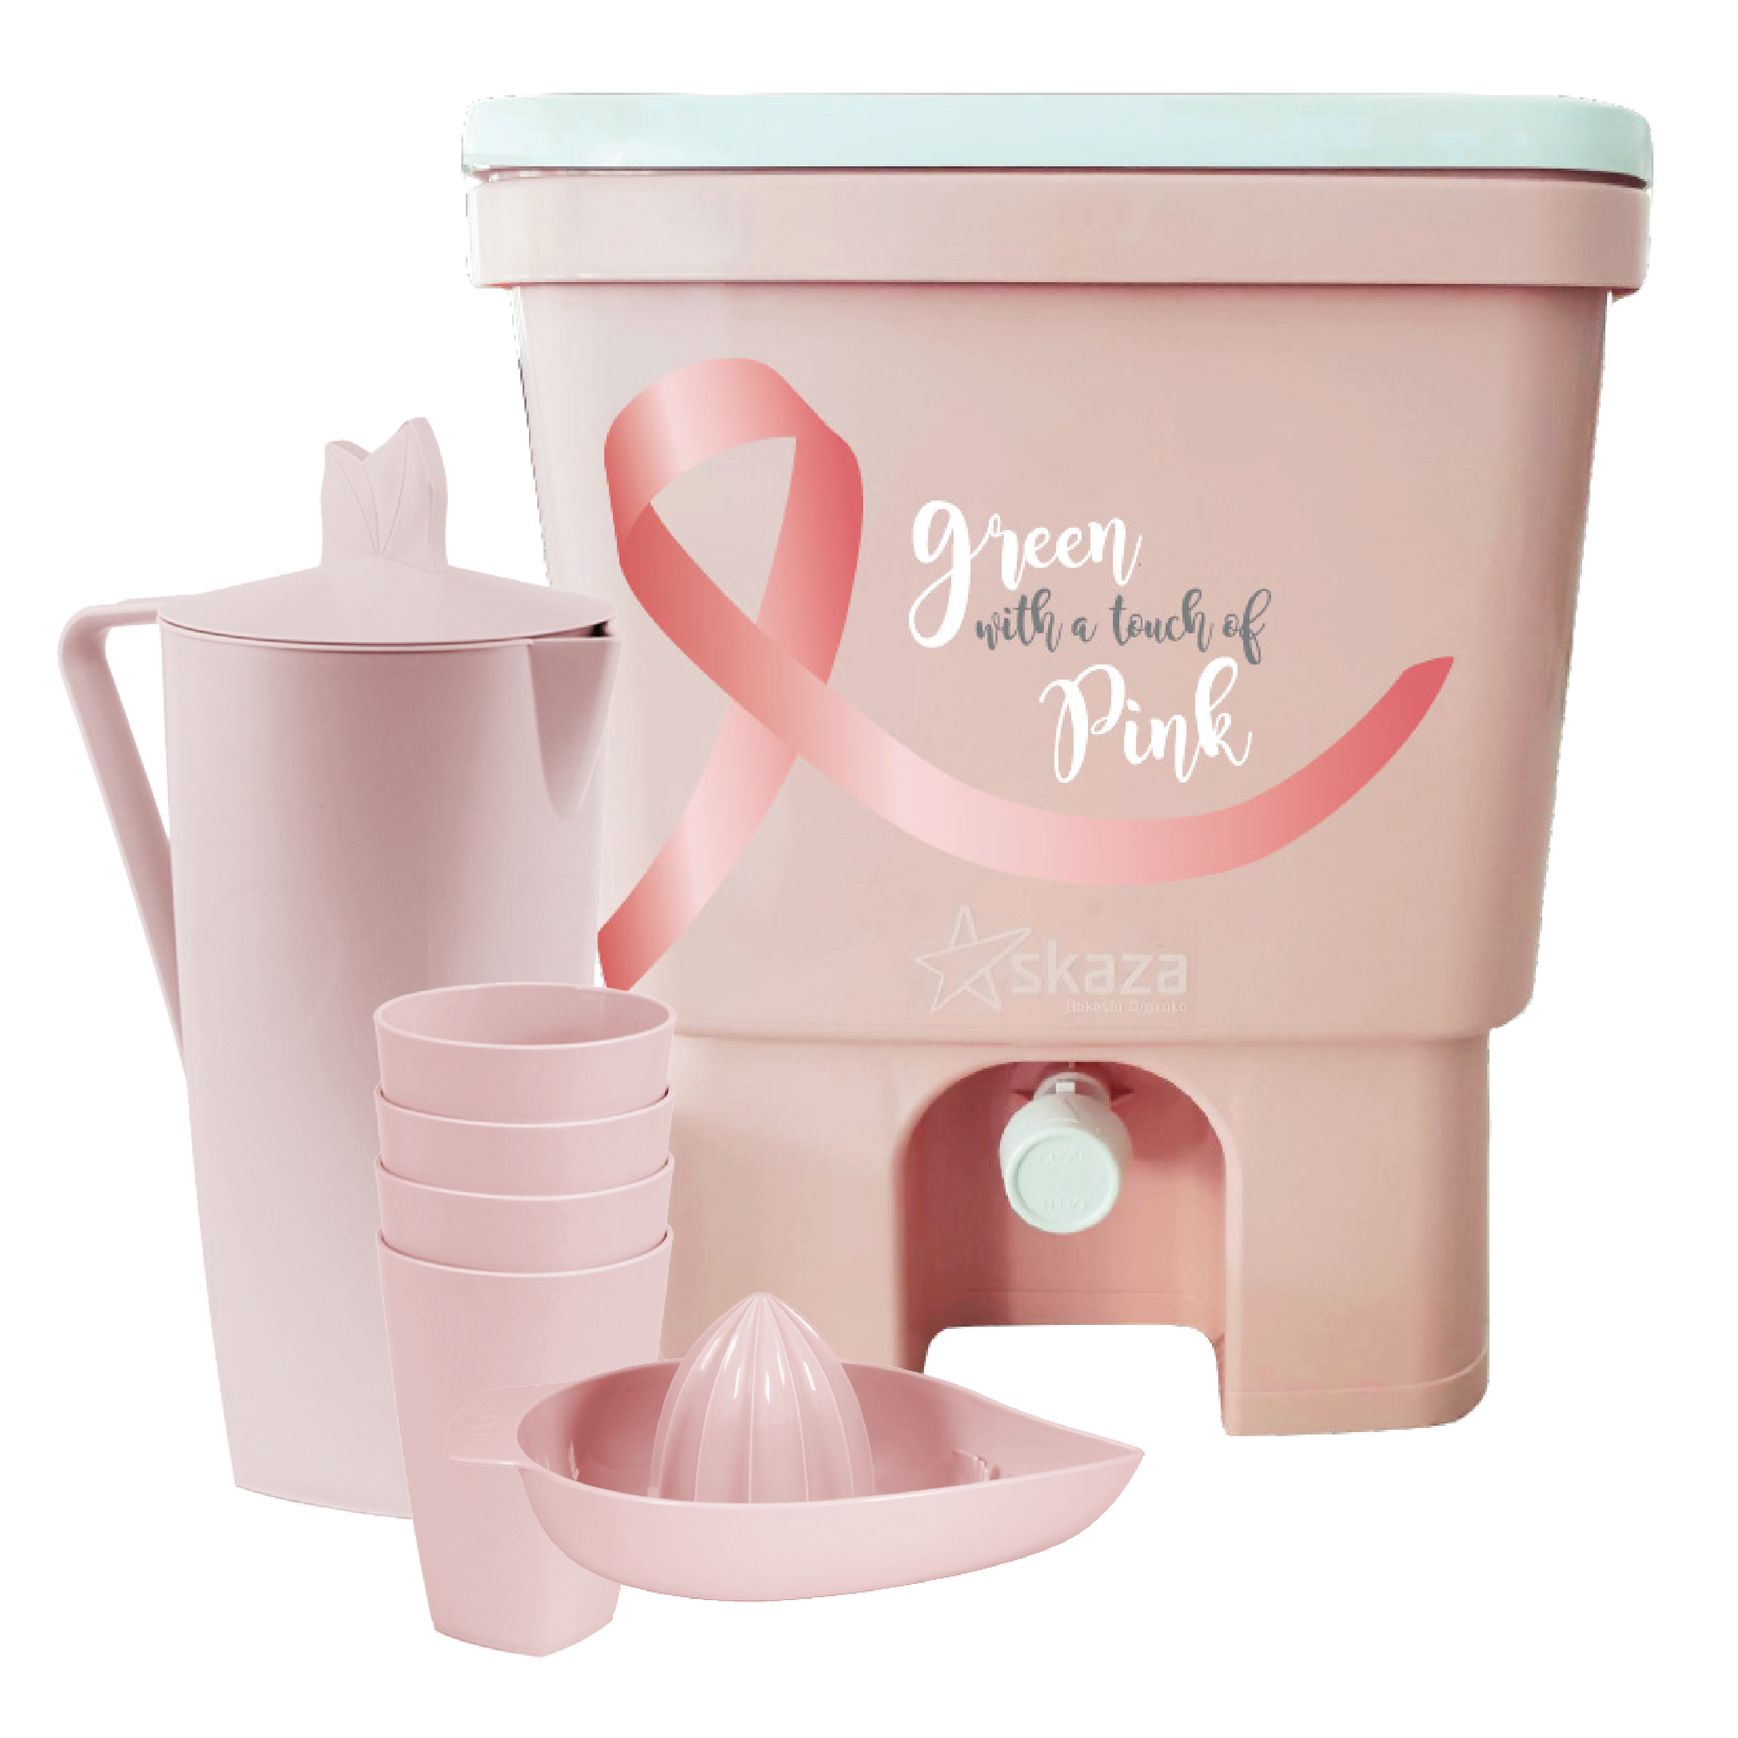
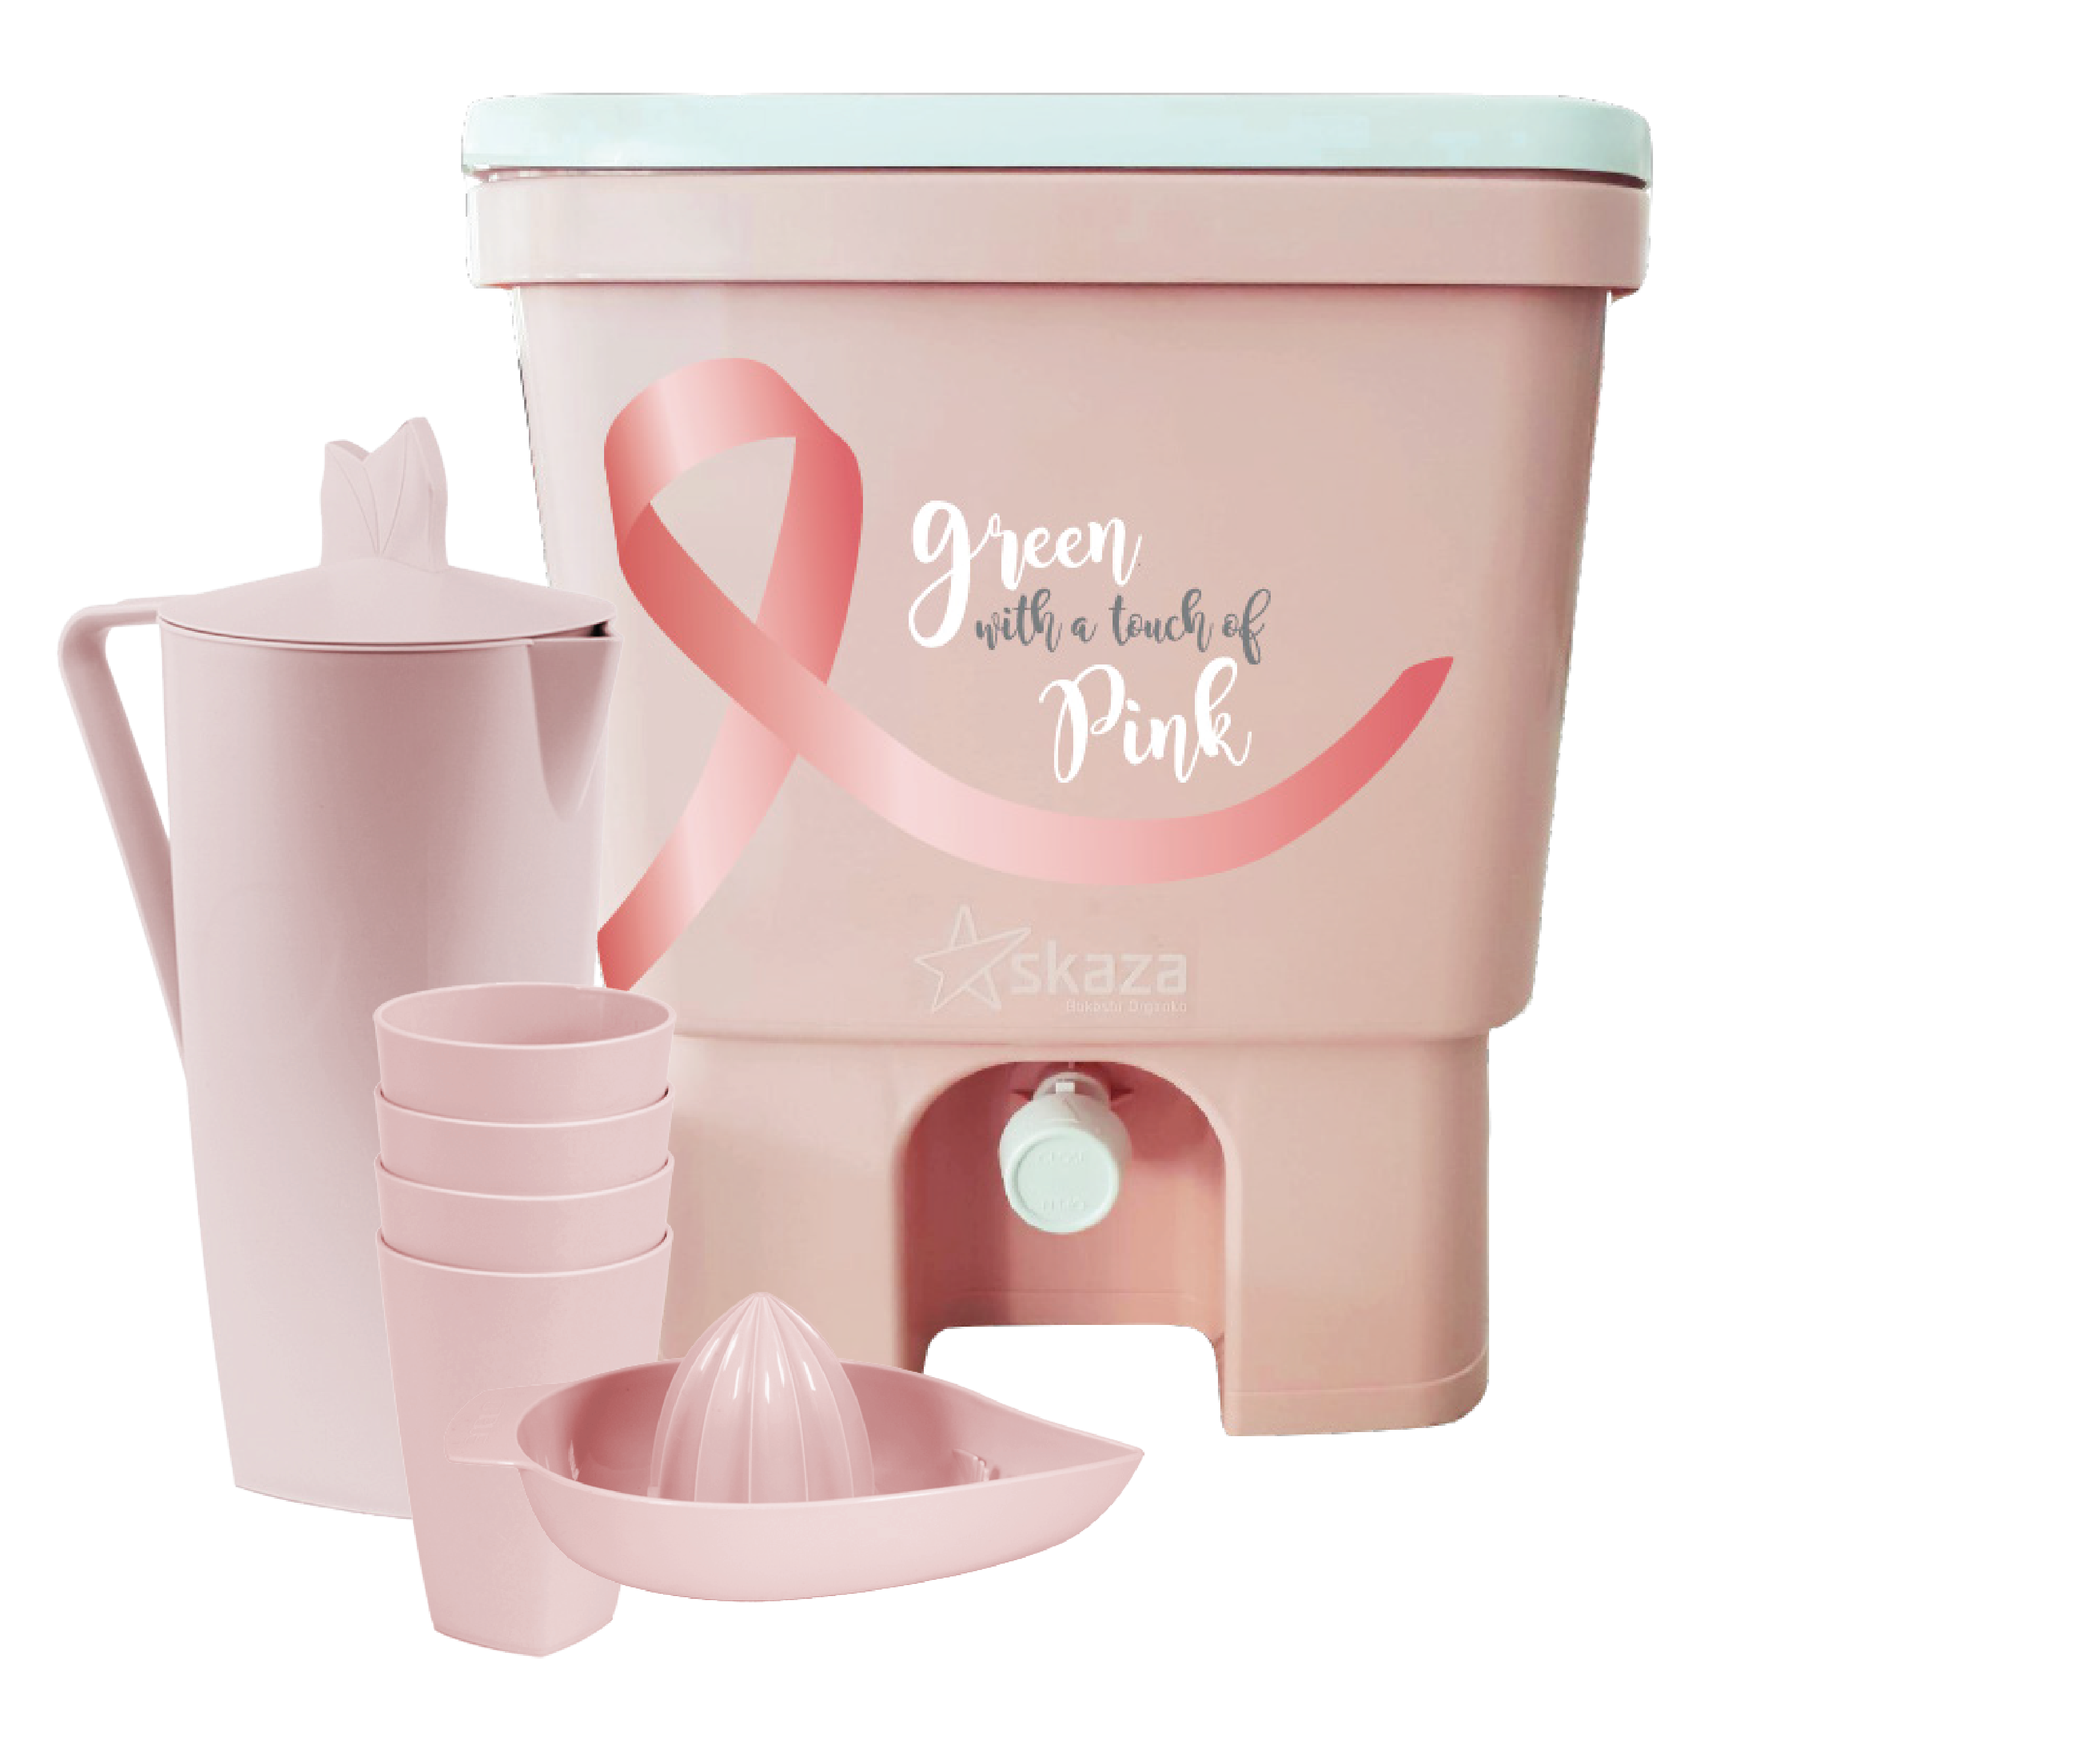
final ribbon fix

diff --git a/css/style.css b/css/style.css
@@ -128,7 +128,7 @@ small, .small {
 }
 
 .text-container {
-  max-width: 1000px;
+  max-width: 1060px;
   margin: 0 auto;
   padding: 0 3%;
 }
@@ -211,7 +211,7 @@ header .right .image-container {
 }
 header .right .bokashi-set {
   display: block;
-  max-width: 280px;
+  max-width: 385px;
   width: 100%;
 }
 header .right .donna-logo {
@@ -238,31 +238,10 @@ header .button {
 
 main section:first-child {
   position: relative;
-  /*
-  410px
-  .ribbon {
-      height: 120%;
-      top: 0;
-      @include transform(translate(25%, -5%));
-  }
-  490
-  height: 130%;
-  min-width: 140%;
-  690
-  min-width: 130%;
-  @include transform(translate(18%, -5%));
-  745
-  @include transform(translate(18%, -10%));
-  800
-  @include transform(translate(10%, -10%));
-  910
-  @include transform(translate(8%, -8%));
-
-  */
 }
 main section:first-child .ribbon {
   height: 50%;
-  min-width: 130%;
+  min-width: 100%;
   max-width: 300%;
   position: absolute;
   right: 0;
@@ -293,7 +272,7 @@ main section:first-child .left img {
 }
 main section:first-child .right ul {
   margin: 0 auto;
-  max-width: 11em;
+  max-width: 18em;
   padding: 0.5em;
 }
 main section:first-child .right ul li {
@@ -447,9 +426,6 @@ main section:nth-child(6) .desktop {
   header .left > .tagline-container h1 {
     font-size: 80px;
   }
-  header .right .bokashi-set {
-    max-width: 320px;
-  }
 
   main section:first-child .ribbon {
     -webkit-transform: translate(20%, 10%);
@@ -459,30 +435,30 @@ main section:nth-child(6) .desktop {
 }
 @media screen and (min-width: 410px) {
   main section:first-child .ribbon {
-    height: 120%;
+    height: 105%;
     top: 0;
-    -webkit-transform: translate(25%, -5%);
-    -ms-transform: translate(25%, -5%);
-    transform: translate(25%, -5%);
+    -webkit-transform: translate(25%, 8%);
+    -ms-transform: translate(25%, 8%);
+    transform: translate(25%, 8%);
   }
   main section:first-child .text-container {
     font-size: 1.25em;
+  }
+  main section:first-child .opis h3 {
+    padding: 1.25em 0 1.5em;
   }
   main section:first-child .flex-container {
     -webkit-align-items: center;
     align-items: center;
     display: -webkit-flex;
     display: flex;
-    max-width: 670px;
   }
   main section:first-child .left {
-    width: 43%;
-  }
-  main section:first-child .left img {
-    max-width: 320px;
+    max-width: 330px;
+    width: 42%;
   }
   main section:first-child .right {
-    width: 57%;
+    width: 58%;
   }
   main section:nth-child(2) header div {
     display: inline-block;
@@ -531,10 +507,6 @@ main section:nth-child(6) .desktop {
     font-size: 95px;
   }
 
-  main section:first-child .ribbon {
-    height: 130%;
-    min-width: 140%;
-  }
   main section:first-child .opis h3 {
     font-size: 1.625em;
   }
@@ -611,9 +583,6 @@ main section:nth-child(6) .desktop {
     clear: both;
     padding: 1.5em 0 25% 10%;
   }
-  header .right .bokashi-set {
-    width: 90%;
-  }
   header .right .donna-logo {
     bottom: 1.25em;
   }
@@ -659,27 +628,44 @@ main section:nth-child(6) .desktop {
   header .left > .tagline-container h1 {
     font-size: 80px;
   }
-  header .right .bokashi-set {
-    max-width: 300px;
+
+  main section:first-child .ribbon {
+    height: 110%;
+    min-width: 130%;
+    -webkit-transform: translate(20%, 5%);
+    -ms-transform: translate(20%, 5%);
+    transform: translate(20%, 5%);
+  }
+  main section:first-child .left img {
+    max-width: 310px;
+  }
+  main section:first-child .right ul {
+    margin: 0 auto;
+    max-width: 100%;
+    padding: 0.5em;
+  }
+  main section:first-child .right ul li {
+    -webkit-align-items: center;
+    align-items: center;
+    display: -webkit-flex;
+    display: flex;
+    margin: 0.75em 0;
+  }
+  main section:first-child .right ul li img {
+    padding: 2px;
+    width: 42px;
+  }
+  main section:first-child .right ul li span {
+    font-size: 1.2em;
+    padding-left: 0.5em;
   }
 }
 @media screen and (min-width: 690px) {
-  main section:first-child .ribbon {
-    min-width: 130%;
-    -webkit-transform: translate(18%, -5%);
-    -ms-transform: translate(18%, -5%);
-    transform: translate(18%, -5%);
-  }
   main section:nth-child(4) p.uppercase {
     font-size: 2.4em;
   }
 }
 @media screen and (min-width: 745px) {
-  main section:first-child .ribbon {
-    -webkit-transform: translate(18%, -10%);
-    -ms-transform: translate(18%, -10%);
-    transform: translate(18%, -10%);
-  }
   main section:first-child .flex-container {
     padding: 1em 0 2.5em;
   }
@@ -718,12 +704,6 @@ main section:nth-child(6) .desktop {
   header .left > .tagline-container h1 {
     font-size: 95px;
   }
-
-  main section:first-child .ribbon {
-    -webkit-transform: translate(10%, -10%);
-    -ms-transform: translate(10%, -10%);
-    transform: translate(10%, -10%);
-  }
 }
 @media screen and (min-width: 910px) {
   header .text-container {
@@ -748,11 +728,6 @@ main section:nth-child(6) .desktop {
     opacity: 0;
   }
 
-  main section:first-child .ribbon {
-    -webkit-transform: translate(8%, -8%);
-    -ms-transform: translate(8%, -8%);
-    transform: translate(8%, -8%);
-  }
   main section:first-child .text-container {
     font-size: 1.5em;
   }
@@ -763,19 +738,13 @@ main section:nth-child(6) .desktop {
     font-size: 2.875em;
   }
 }
-@media screen and (min-width: 1100px) {
+@media screen and (min-width: 1125px) {
   main section:first-child .ribbon {
-    height: 160%;
+    height: 120%;
     min-width: 120%;
-    right: 0;
-    -webkit-transform: translate(8%, 0);
-    -ms-transform: translate(8%, 0);
-    transform: translate(8%, 0);
-  }
-}
-@media screen and (min-width: 1200px) {
-  main section:first-child .ribbon {
-    height: 170%;
+    -webkit-transform: translate(15%, 5%);
+    -ms-transform: translate(15%, 5%);
+    transform: translate(15%, 5%);
   }
 }
 
